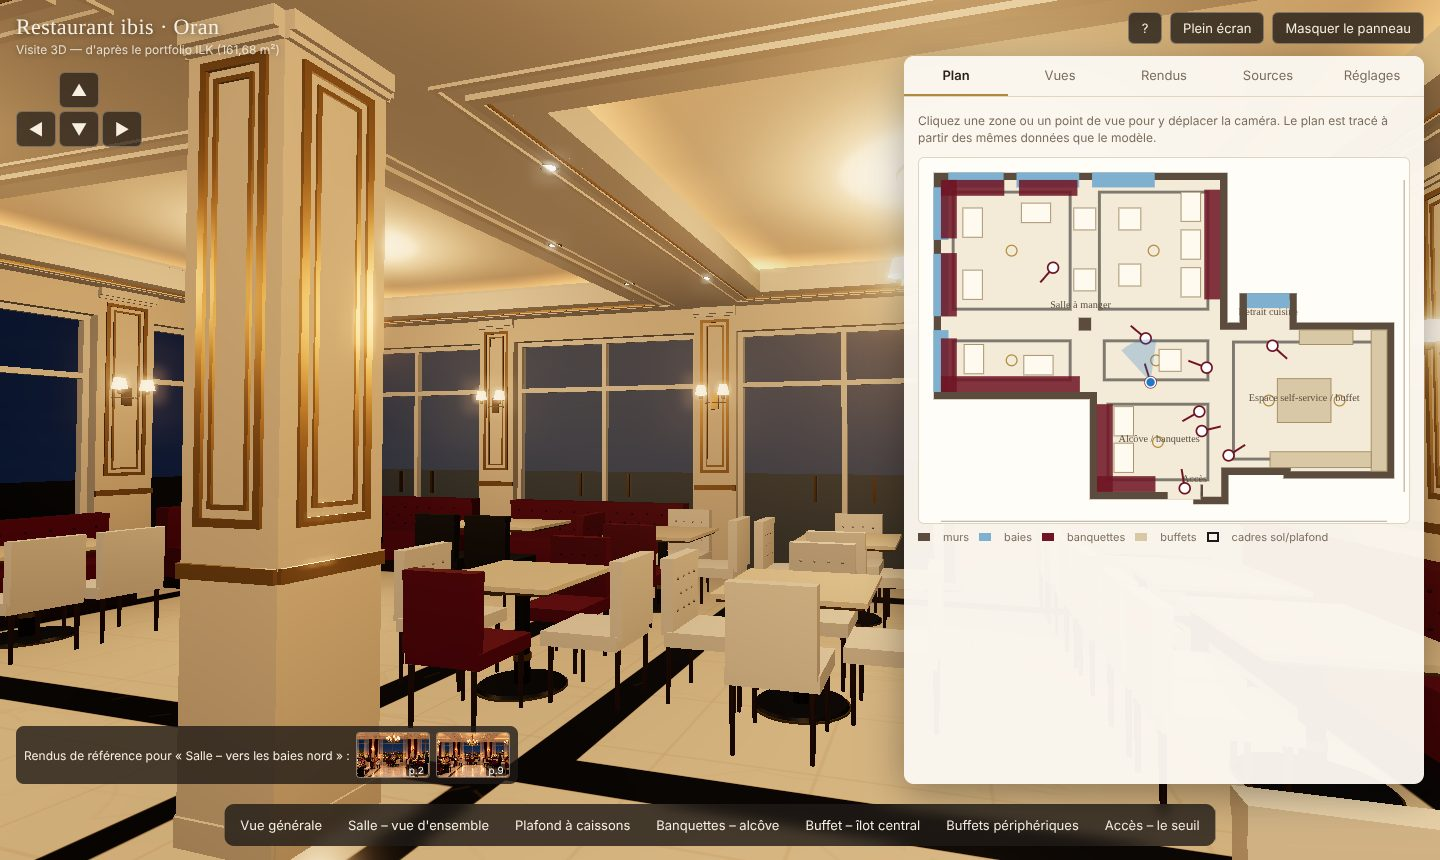
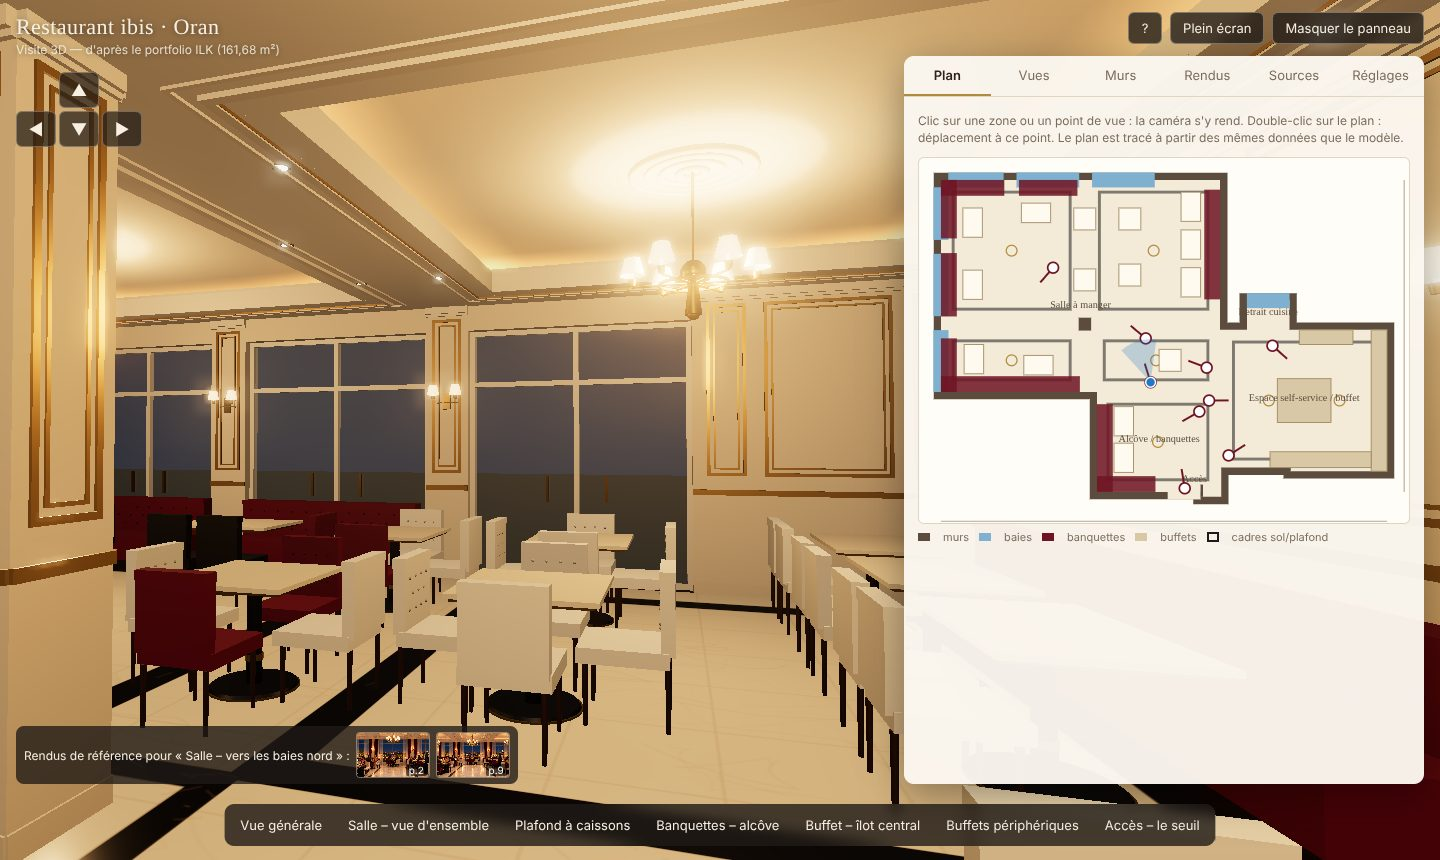
Visite ibis : onglet Murs (26 faces + élévations), comparaison rendu / modèle, double-clic sur le plan
- Vue frontale calculée pour chaque face de walls.json, avec repli oblique pour les retours
  courts (M09, M13), et planches d'élévation p.41-66 extraites du PDF.
- Curseur de comparaison entre le rendu du PDF et une capture du modèle au même cadrage.
- Double-clic sur le plan SVG pour se déplacer ; vue 3D centrée hors panneau.
- Caméra « Buffet – îlot central » réalignée sur la composition axiale du rendu p.14.
- Vérification Playwright étendue (26 vues frontales, comparaison, plan).

Claude-Session: https://claude.ai/code/session_01GP6UgGd6sE1sRNsPqwwLmc

diff --git a/ibis-oran-visite/src/App.tsx b/ibis-oran-visite/src/App.tsx
@@ -5,9 +5,11 @@ import { Tour, type CamState, type ModelStats } from './engine/Tour';
 import { polygonArea } from './engine/util';
 import { PlanView } from './components/PlanView';
 import { Gallery, SettingsPanel, SourcesPanel } from './components/Panels';
+import { WallsPanel } from './components/WallsPanel';
+import { Compare } from './components/Compare';
 
-type Tab = 'vues' | 'plan' | 'rendus' | 'sources' | 'reglages';
-interface Lightbox { file: string; title: string; page: number; note?: string; camera?: string; list?: RenderItem[]; index?: number }
+type Tab = 'vues' | 'plan' | 'murs' | 'rendus' | 'sources' | 'reglages';
+interface Lightbox { file: string; title: string; page: number; note?: string; camera?: string; face?: string; list?: RenderItem[]; index?: number; model?: string }
 
 const DEFAULT_OPTIONS: Options = { layout: 'amenagement-02', floor: 'sol-A', lustre: 'abat-jour', showCeiling: true, showFurniture: true, quality: 'standard', bloom: true };
 
@@ -15,6 +17,7 @@ declare global { interface Window { __tour?: Tour } }
 
 export default function App() {
   const host = useRef<HTMLDivElement>(null);
+  const panelRef = useRef<HTMLElement>(null);
   const tour = useRef<Tour | undefined>(undefined);
   const [data, setData] = useState<ProjectData>();
   const [error, setError] = useState<string>();
@@ -83,6 +86,15 @@ export default function App() {
     document.addEventListener('fullscreenchange', f); return () => document.removeEventListener('fullscreenchange', f);
   }, []);
 
+  // la vue 3D se centre dans la partie non couverte par le panneau (écrans larges)
+  useEffect(() => {
+    const el = panelRef.current; const t = tour.current; if (!t) return;
+    if (!el || presentation || window.innerWidth <= 760) { t.setInsetRight(0); return; }
+    const upd = () => t.setInsetRight(Math.max(0, window.innerWidth - el.getBoundingClientRect().left));
+    upd(); const ro = new ResizeObserver(upd); ro.observe(el); window.addEventListener('resize', upd);
+    return () => { ro.disconnect(); window.removeEventListener('resize', upd); };
+  }, [panelOpen, presentation, data, stats]);
+
   const area = useMemo(() => data ? polygonArea(data.geometry.outline.points) - data.geometry.poteau.w * data.geometry.poteau.d : 0, [data]);
   const view = data?.cameras.views.find((v) => v.id === activeView);
   const related = useMemo(() => (data && activeView ? data.renders.items.filter((r) => r.camera === activeView) : []), [data, activeView]);
@@ -90,6 +102,15 @@ export default function App() {
   const openRender = (r: RenderItem, list?: RenderItem[]) => {
     const l = list ?? data?.renders.items ?? [];
     setLightbox({ file: r.file, title: r.title, page: r.page, note: r.note, camera: r.camera, list: l, index: l.findIndex((x) => x.id === r.id) });
+  };
+  const compare = () => {
+    const lb = lightbox; const t = tour.current; if (!lb?.camera || !t) return;
+    const img = new Image();
+    img.onload = () => {
+      const w = 1280; const h = Math.round((w * img.naturalHeight) / img.naturalWidth);
+      setLightbox({ ...lb, model: t.snapshot(lb.camera!, w, h) });
+    };
+    img.src = `${import.meta.env.BASE_URL}${lb.file}`;
   };
   const stepLightbox = (d: number) => {
     if (!lightbox?.list || lightbox.index === undefined) return;
@@ -123,17 +144,17 @@ export default function App() {
       </div>
 
       {data && !presentation && panelOpen && (
-        <aside className="panel">
+        <aside className="panel" ref={panelRef}>
           <nav className="tabs" role="tablist">
-            {([['plan', 'Plan'], ['vues', 'Vues'], ['rendus', 'Rendus'], ['sources', 'Sources'], ['reglages', 'Réglages']] as [Tab, string][]).map(([k, l]) => (
+            {([['plan', 'Plan'], ['vues', 'Vues'], ['murs', 'Murs'], ['rendus', 'Rendus'], ['sources', 'Sources'], ['reglages', 'Réglages']] as [Tab, string][]).map(([k, l]) => (
               <button key={k} role="tab" aria-selected={tab === k} className={tab === k ? 'on' : ''} onClick={() => setTab(k)}>{l}</button>
             ))}
           </nav>
           <div className="panel-body">
             {tab === 'plan' && (
               <>
-                <p className="hint">Cliquez une zone ou un point de vue pour y déplacer la caméra. Le plan est tracé à partir des mêmes données que le modèle.</p>
-                <PlanView data={data} layout={options.layout} cam={cam} activeView={activeView} onZone={go} onView={go} />
+                <p className="hint">Clic sur une zone ou un point de vue : la caméra s'y rend. Double-clic sur le plan : déplacement à ce point. Le plan est tracé à partir des mêmes données que le modèle.</p>
+                <PlanView data={data} layout={options.layout} cam={cam} activeView={activeView} onZone={go} onView={go} onMove={(x, y) => { if (!tour.current?.moveToPlan(x, y)) flash('Point hors de la salle'); }} />
                 <div className="legend"><span className="lg wall" />murs <span className="lg win" />baies <span className="lg ban" />banquettes <span className="lg buf" />buffets <span className="lg frame" />cadres sol/plafond</div>
               </>
             )}
@@ -147,6 +168,9 @@ export default function App() {
                 ))}
               </div>
             ))}
+            {tab === 'murs' && <WallsPanel data={data}
+              onFace={(id) => { tour.current?.goToFace(id); if (window.innerWidth <= 760) setPanelOpen(false); }}
+              onSheet={(id) => { const f = data.walls.faces.find((x) => x.id === id)!; setLightbox({ file: `plans/elevations/${id}.jpg`, title: `Élévation ${id} — ${f.label}`, page: f.page, face: id, note: `Statut : ${f.status}. Cadres hors tout : ${f.frames.join(' / ') || 'aucun'} mm.` }); }} />}
             {tab === 'rendus' && <Gallery data={data} onOpen={(r) => openRender(r)} onOpenPlan={(file, title, page) => setLightbox({ file, title, page })} />}
             {tab === 'sources' && <SourcesPanel data={data} area={area} />}
             {tab === 'reglages' && <SettingsPanel data={data} options={options} stats={stats} busy={busy} onChange={change} onReload={reload} onExport={exportGLB} onCopyView={copyView} />}
@@ -204,18 +228,24 @@ export default function App() {
         <div className="lightbox" role="dialog" aria-modal="true" aria-label={lightbox.title} onKeyDown={(e) => { if (e.key === 'Escape') setLightbox(null); }}>
           <div className="lb-head">
             <div>
-              <span className="badge st-ref">Image de référence du PDF — p.{lightbox.page}</span>
+              <span className="badge st-ref">{lightbox.face ? 'Planche cotée' : 'Image de référence'} du PDF — p.{lightbox.page}</span>
               <h3>{lightbox.title}</h3>
               {lightbox.note && <p className="note">{lightbox.note}</p>}
             </div>
             <div className="row">
+              {lightbox.camera && !lightbox.face && (lightbox.model
+                ? <button className="btn" onClick={() => setLightbox({ ...lightbox, model: undefined })}>Rendu seul</button>
+                : <button className="btn" onClick={compare}>Comparer avec le modèle</button>)}
               {lightbox.camera && <button className="btn primary" onClick={() => go(lightbox.camera!)}>Voir la position dans le modèle 3D</button>}
+              {lightbox.face && <button className="btn primary" onClick={() => { tour.current?.goToFace(lightbox.face!); setLightbox(null); }}>Vue frontale dans le modèle 3D</button>}
               <button className="btn" onClick={() => setLightbox(null)} autoFocus>Retour au modèle</button>
             </div>
           </div>
           <div className="lb-img">
             {lightbox.list && lightbox.list.length > 1 && <button className="lb-nav" onClick={() => stepLightbox(-1)} aria-label="Précédent">‹</button>}
-            <img src={`${base}${lightbox.file}`} alt={lightbox.title} />
+            {lightbox.model
+              ? <Compare render={`${base}${lightbox.file}`} model={lightbox.model} title={lightbox.title} />
+              : <img src={`${base}${lightbox.file}`} alt={lightbox.title} />}
             {lightbox.list && lightbox.list.length > 1 && <button className="lb-nav" onClick={() => stepLightbox(1)} aria-label="Suivant">›</button>}
           </div>
           <p className="hint center">Rendu fixe fourni dans le dossier : il n'est ni un panorama ni une vue calculée du modèle ; certaines images montrent des variantes non retenues.</p>

diff --git a/ibis-oran-visite/src/engine/Tour.ts b/ibis-oran-visite/src/engine/Tour.ts
@@ -40,6 +40,7 @@ export class Tour {
   private clip = new THREE.Plane(new THREE.Vector3(0, -1, 0), 2.6);
   private raycaster = new THREE.Raycaster();
   private lastTap = 0;
+  private insetRight = 0;
   private keys = new Set<string>();
   private frameId = 0;
   private listeners: (() => void)[] = [];
@@ -150,6 +151,69 @@ export class Tour {
     this.onView?.(id);
   }
 
+  /** Vue frontale d'une face de walls.json (contrôle face à l'élévation du PDF). */
+  goToFace(id: string) {
+    const f = this.data.walls.faces.find((x) => x.id === id); if (!f) return;
+    const L = Math.hypot(f.b[0] - f.a[0], f.b[1] - f.a[1]);
+    const mx = (f.a[0] + f.b[0]) / 2; const my = (f.a[1] + f.b[1]) / 2;
+    const hz = this.data.geometry.heights; const hc = (hz.dessousGorge.value + 0.0) / 2 + 0.1;
+    const fov = 55; const vh = hz.dessousGorge.value + 0.3;
+    const visW = (this.container.clientWidth || 1) - Math.min(this.insetRight, (this.container.clientWidth || 1) * 0.6);
+    const aspect = Math.max(0.6, visW / (this.container.clientHeight || 1));
+    const need = Math.max(L * 1.15 / aspect, vh) / (2 * Math.tan(THREE.MathUtils.degToRad(fov / 2)));
+    // recul limité par la pièce ; si l'axe est bloqué (retours, joues), vue oblique de ±20 à ±60°
+    const reach = (dx: number, dy: number) => {
+      let d = 0.3;
+      while (d < need && this.insideRoom(mx + dx * (d + 0.15), my + dy * (d + 0.15))) d += 0.05;
+      return d;
+    };
+    let best = { d: 0, dx: f.n[0], dy: f.n[1] };
+    for (const deg of [0, 20, -20, 40, -40, 60, -60]) {
+      const a = THREE.MathUtils.degToRad(deg); const c = Math.cos(a); const sn = Math.sin(a);
+      const dx = f.n[0] * c - f.n[1] * sn; const dy = f.n[0] * sn + f.n[1] * c;
+      const d = reach(dx, dy);
+      if (d >= Math.min(need, 1.5)) { best = { d, dx, dy }; break; }
+      if (d > best.d) best = { d, dx, dy };
+    }
+    const pos = new THREE.Vector3(mx + best.dx * best.d, hc, my + best.dy * best.d);
+    this.flyTo(pos, new THREE.Vector3(mx, hc, my), fov, 1100);
+    this.onView?.(null);
+  }
+
+  /** Déplacement vers un point du plan (double-clic sur le plan SVG), en conservant la direction du regard. */
+  moveToPlan(x: number, y: number) {
+    if (!this.insideRoom(x, y)) return false;
+    const eye = this.data.cameras.eyeHeight;
+    const dir = this.camera.getWorldDirection(new THREE.Vector3()); dir.y = 0;
+    if (this.overview || dir.lengthSq() < 1e-4) dir.set(9.15 - x, 0, 6.4 - y);
+    dir.normalize();
+    const pos = new THREE.Vector3(x, eye, y);
+    this.flyTo(pos, pos.clone().add(dir.multiplyScalar(4)), 62, 1000);
+    this.onView?.(null);
+    return true;
+  }
+
+  /**
+   * Image du modèle depuis une vue nommée, au format d'un rendu (comparaison rendu / modèle).
+   * Rendu hors écran à taille fixe, la vue courante est restaurée ensuite.
+   */
+  snapshot(viewId: string, width: number, height: number): string {
+    const v = this.view(viewId); if (!v) return '';
+    const cam = this.camera.clone();
+    cam.clearViewOffset(); cam.aspect = width / height; cam.fov = v.fov;
+    cam.position.set(v.pos[0], v.pos[2], v.pos[1]); cam.lookAt(v.target[0], v.target[2], v.target[1]); cam.updateProjectionMatrix();
+    const prevOv = this.overview; this.overview = v.pos[2] > 4.2; this.applyOverviewState();
+    const size = this.renderer.getSize(new THREE.Vector2()); const pr = this.renderer.getPixelRatio();
+    this.renderer.setPixelRatio(1); this.renderer.setSize(width, height, false); this.composer.setPixelRatio(1); this.composer.setSize(width, height);
+    const pass = this.composer.passes[0] as RenderPass; const prevCam = pass.camera; pass.camera = cam;
+    this.composer.render();
+    const url = this.renderer.domElement.toDataURL('image/jpeg', 0.9);
+    pass.camera = prevCam;
+    this.renderer.setPixelRatio(pr); this.composer.setPixelRatio(pr); this.renderer.setSize(size.x, size.y, false); this.composer.setSize(size.x, size.y);
+    this.overview = prevOv; this.applyOverviewState();
+    return url;
+  }
+
   flyTo(pos: THREE.Vector3, target: THREE.Vector3, fov = this.camera.fov, dur = 1200) {
     const fromT = this.overview ? this.controls.target.clone() : this.camera.position.clone().add(this.camera.getWorldDirection(new THREE.Vector3()).multiplyScalar(pos.distanceTo(target)));
     this.anim = { from: [this.camera.position.clone(), fromT], to: [pos, target], fov: [this.camera.fov, fov], t0: performance.now(), dur, done: () => this.settle(pos, target) };
@@ -255,7 +319,26 @@ export class Tour {
   private resize() {
     const w = this.container.clientWidth || 1; const h = this.container.clientHeight || 1;
     this.renderer.setSize(w, h); this.composer.setSize(w, h);
-    this.camera.aspect = w / h; this.camera.updateProjectionMatrix();
+    this.applyProjection(w, h);
+  }
+
+  /** Centre l'image dans la partie visible quand un panneau couvre la droite de l'écran. */
+  private applyProjection(w: number, h: number) {
+    const inset = Math.min(this.insetRight, w * 0.6);
+    if (inset > 0) {
+      const full = w + inset;
+      this.camera.aspect = full / h;
+      this.camera.setViewOffset(full, h, inset, 0, w, h);
+    } else {
+      this.camera.clearViewOffset();
+      this.camera.aspect = w / h;
+    }
+    this.camera.updateProjectionMatrix();
+  }
+
+  setInsetRight(px: number) {
+    if (Math.abs(px - this.insetRight) < 1) return;
+    this.insetRight = px; this.resize();
   }
 
   private lastEmit = 0;

diff --git a/ibis-oran-visite/src/components/PlanView.tsx b/ibis-oran-visite/src/components/PlanView.tsx
@@ -1,19 +1,28 @@
-import { useMemo, useState } from 'react';
+import { useMemo, useRef, useState, type MouseEvent } from 'react';
 import type { ProjectData } from '../types';
 import type { CamState } from '../engine/Tour';
 import { resolveTables } from '../engine/furniture';
 
-interface Props { data: ProjectData; layout: string; cam?: CamState; activeView: string | null; onZone: (camera: string) => void; onView: (id: string) => void }
+interface Props { data: ProjectData; layout: string; cam?: CamState; activeView: string | null; onZone: (camera: string) => void; onView: (id: string) => void; onMove?: (x: number, y: number) => void }
 
 /** Plan interactif généré depuis geometry.json / furniture.json (mêmes données que le modèle 3D). */
-export function PlanView({ data, layout, cam, activeView, onZone, onView }: Props) {
+export function PlanView({ data, layout, cam, activeView, onZone, onView, onMove }: Props) {
+  // un clic sur une zone est différé pour laisser la place au double-clic (déplacement au point)
+  const timer = useRef<number | undefined>(undefined);
+  const zoneClick = (camera: string) => { window.clearTimeout(timer.current); timer.current = window.setTimeout(() => onZone(camera), 260); };
+  const dbl = (e: MouseEvent<SVGSVGElement>) => {
+    window.clearTimeout(timer.current);
+    const svg = e.currentTarget; const m = svg.getScreenCTM(); if (!m || !onMove) return;
+    const p = new DOMPoint(e.clientX, e.clientY).matrixTransform(m.inverse());
+    onMove(p.x, p.y);
+  };
   const [hover, setHover] = useState<string | null>(null);
   const g = data.geometry; const f = data.furniture;
   const pts = g.outline.points.map((p) => p.join(',')).join(' ');
   const tables = useMemo(() => resolveTables(f, layout), [f, layout]);
   const t = g.wallThickness.value;
   return (
-    <svg className="plan" viewBox={`${-0.9} ${-0.9} ${20.1} ${15.0}`} role="img" aria-label="Plan interactif du restaurant">
+    <svg onDoubleClick={dbl} className="plan" viewBox={`${-0.9} ${-0.9} ${20.1} ${15.0}`} role="img" aria-label="Plan interactif du restaurant">
       <defs>
         <pattern id="hatch" width="0.2" height="0.2" patternUnits="userSpaceOnUse" patternTransform="rotate(45)">
           <line x1="0" y1="0" x2="0" y2="0.2" stroke="#8a7a62" strokeWidth="0.04" />
@@ -58,7 +67,7 @@ export function PlanView({ data, layout, cam, activeView, onZone, onView }: Prop
         <polygon key={z.id} points={z.polygon.map((p) => p.join(',')).join(' ')}
           className={`zone ${hover === z.id ? 'hover' : ''}`}
           onMouseEnter={() => setHover(z.id)} onMouseLeave={() => setHover(null)}
-          onClick={() => onZone(z.camera)} tabIndex={0} role="button" aria-label={`Aller à : ${z.label}`}
+          onClick={() => zoneClick(z.camera)} tabIndex={0} role="button" aria-label={`Aller à : ${z.label}`}
           onKeyDown={(e) => { if (e.key === 'Enter') onZone(z.camera); }}>
           <title>{z.label}</title>
         </polygon>

diff --git a/ibis-oran-visite/src/components/WallsPanel.tsx b/ibis-oran-visite/src/components/WallsPanel.tsx
@@ -1,0 +1,44 @@
+import type { ProjectData } from '../types';
+import { StatusBadge } from './Panels';
+
+interface Props { data: ProjectData; onFace: (id: string) => void; onSheet: (id: string) => void }
+
+/** Les 26 faces de l'annexe C : vue frontale dans le modèle et planche d'élévation du PDF. */
+export function WallsPanel({ data, onFace, onSheet }: Props) {
+  const groups: [string, string][] = [['M', 'Murs M01-M16'], ['P', 'Trumeaux et angle P01-P06'], ['C', 'Poteau central C01-C04']];
+  const P = data.walls.profiles; const hz = data.geometry.heights;
+  return (
+    <div>
+      <p className="hint">
+        Cadres en partie haute uniquement ({hz.basCadres.value.toFixed(2)} → {hz.hautCadres.value.toFixed(2)} m), cimaise à +{hz.axeCimaise.value.toFixed(2)} m, partie basse lisse.
+        Double encadrement : profil 01 {P.cadre01.width * 1000} mm, profil 02 {P.cadre02.width * 1000} mm en retrait de {P.cadre02.offset * 1000} mm.
+        « Vue 3D » place la caméra face au mur ; « Élévation » ouvre la planche cotée du PDF pour comparer.
+      </p>
+      {groups.map(([k, title]) => (
+        <div key={k}>
+          <h4>{title}</h4>
+          <table className="src faces">
+            <thead><tr><th>Face</th><th>Largeur</th><th>Cadres (mm)</th><th>Statut</th><th /></tr></thead>
+            <tbody>
+              {data.walls.faces.filter((f) => f.id.startsWith(k)).map((f) => {
+                const L = Math.hypot(f.b[0] - f.a[0], f.b[1] - f.a[1]);
+                return (
+                  <tr key={f.id}>
+                    <td><b>{f.id}</b><div className="file">{f.label}</div></td>
+                    <td className="nowrap">{L.toFixed(2)} m</td>
+                    <td>{f.frames.length ? f.frames.join(' / ') : 'cimaise seule'}</td>
+                    <td><StatusBadge s={f.status} /></td>
+                    <td className="nowrap">
+                      <button className="mini" onClick={() => onFace(f.id)}>Vue 3D</button>
+                      <button className="mini" onClick={() => onSheet(f.id)}>Élévation p.{f.page}</button>
+                    </td>
+                  </tr>
+                );
+              })}
+            </tbody>
+          </table>
+        </div>
+      ))}
+    </div>
+  );
+}

diff --git a/ibis-oran-visite/src/styles.css b/ibis-oran-visite/src/styles.css
@@ -115,3 +115,17 @@ code { font-size: 11.5px; background: #efe6d4; padding: 1px 4px; border-radius: 
   .walkpad { top: auto; bottom: 130px; right: 12px; left: auto; }
   .lb-img img { max-width: calc(100% - 70px); } .lb-nav { width: 30px; }
 }
+
+/* --- itération 2 : murs, comparaison --- */
+.mini { background: #fff; border: 1px solid var(--line); border-radius: 5px; padding: 3px 7px; font-size: 11px; margin: 1px 2px; }
+.mini:hover { border-color: var(--gold); }
+table.faces td { vertical-align: middle; }
+.compare { display: flex; flex-direction: column; align-items: center; gap: 8px; max-width: calc(100% - 100px); max-height: 100%; }
+.cmp-stage { position: relative; max-height: calc(100vh - 220px); }
+.cmp-stage img { display: block; max-width: 100%; max-height: calc(100vh - 220px); border-radius: 4px; }
+.cmp-stage .cmp-top { position: absolute; inset: 0; width: 100%; height: 100%; object-fit: fill; }
+.cmp-line { position: absolute; top: 0; bottom: 0; width: 2px; background: var(--gold); pointer-events: none; }
+.cmp-tag { position: absolute; top: 8px; font-size: 11px; background: rgba(0,0,0,.6); padding: 2px 6px; border-radius: 3px; }
+.cmp-tag.left { left: 8px; } .cmp-tag.right { right: 8px; }
+.compare input[type=range] { width: min(480px, 90%); accent-color: var(--gold); }
+@media (max-width: 760px) { .compare { max-width: calc(100% - 70px); } }

diff --git a/ibis-oran-visite/src/components/Compare.tsx b/ibis-oran-visite/src/components/Compare.tsx
@@ -1,0 +1,17 @@
+import { useState } from 'react';
+
+/** Superposition rendu du PDF / capture du modèle, séparées par un curseur. */
+export function Compare({ render, model, title }: { render: string; model: string; title: string }) {
+  const [pos, setPos] = useState(50);
+  return (
+    <div className="compare">
+      <div className="cmp-stage">
+        <img src={model} alt={`Modèle 3D – ${title}`} />
+        <img src={render} alt={`Rendu du PDF – ${title}`} className="cmp-top" style={{ clipPath: `inset(0 ${100 - pos}% 0 0)` }} />
+        <div className="cmp-line" style={{ left: `${pos}%` }} />
+        <span className="cmp-tag left">Rendu du PDF</span><span className="cmp-tag right">Modèle 3D</span>
+      </div>
+      <input type="range" min={0} max={100} value={pos} onChange={(e) => setPos(Number(e.target.value))} aria-label="Curseur de comparaison" />
+    </div>
+  );
+}

diff --git a/ibis-oran-visite/README.md b/ibis-oran-visite/README.md
@@ -46,7 +46,8 @@ Paramètres d'URL utiles : `?vue=buffet-central` (vue de départ, identifiant de
 ```bash
 npm run build
 npm run check        # ouvre la visite dans Chromium (Playwright), contrôle quantités,
-                     # vues, plan, rendus, double-clic au sol, variantes, mobile ;
+                     # vues, 26 vues frontales, plan (clic et double-clic), rendus,
+                     # comparaison, double-clic au sol, variantes, mobile ;
                      # captures dans docs/captures/
 npm run export:glb   # écrit model/restaurant-ibis-oran_amenagement-02_sol-A_abat-jour.glb
 npm run export:glb -- amenagement-01 sol-B vasque   # export d'une variante
@@ -65,11 +66,14 @@ Le bouton « Exporter le GLB » de l'onglet Réglages fait le même export depui
 | Se déplacer à un point | double-clic au sol | double-tap au sol |
 | Avancer / reculer / tourner | molette, flèches, Z Q S D | pavé ▲ ◀ ▼ ▶ |
 | Vue générale | molette = zoom, clic droit = déplacer | pincer, deux doigts |
-| Changer d'espace | barre de vues en bas, onglet **Vues**, ou clic sur le **Plan** | idem |
-| Rendus de référence | vignettes en bas à gauche ou onglet **Rendus** → « Voir la position dans le modèle 3D » / « Retour au modèle » | idem |
+| Changer d'espace | barre de vues en bas, onglet **Vues**, ou clic sur une zone du **Plan** | idem |
+| Aller à un point précis | double-clic sur le **Plan** | double-tap sur le plan |
+| Rendus de référence | vignettes en bas à gauche ou onglet **Rendus** → « Comparer avec le modèle » (curseur rendu / 3D), « Voir la position dans le modèle 3D », « Retour au modèle » | idem |
+| Contrôle des murs | onglet **Murs** → « Vue 3D » (caméra face à la face) et « Élévation p.xx » (planche cotée du PDF) | idem |
 | Présentation client | bouton **Plein écran** (masque les panneaux) | idem |
 
-Onglets : **Plan** (zones et points de vue cliquables, position de la caméra) · **Vues** ·
+Onglets : **Plan** (zones et points de vue cliquables, double-clic pour se déplacer, position de la caméra) · **Vues** ·
+**Murs** (26 faces : largeur, cadres, statut, vue frontale 3D et planche d'élévation p.41-66) ·
 **Rendus** (33 images extraites du PDF + planches techniques) · **Sources** (sources et
 hypothèses avec page et statut, et table de correspondance des 109 pages) · **Réglages**
 (variantes, contrôle des quantités, export GLB, rechargement des données).
@@ -126,7 +130,7 @@ src/engine/
   Tour.ts          rendu, navigation, vols de caméra, export GLB
 src/components/    plan interactif SVG, galerie de rendus, sources, réglages
 public/renders/    rendus extraits du PDF (pages 1-23, 28, 39, 102-106)
-public/plans/      planches techniques de référence
+public/plans/      planches techniques de référence ; elevations/ = 26 élévations M01-C04 (p.41-66)
 docs/              correspondance des pages, sources et hypothèses, captures de contrôle
 model/             export GLB de la version principale
 ```
